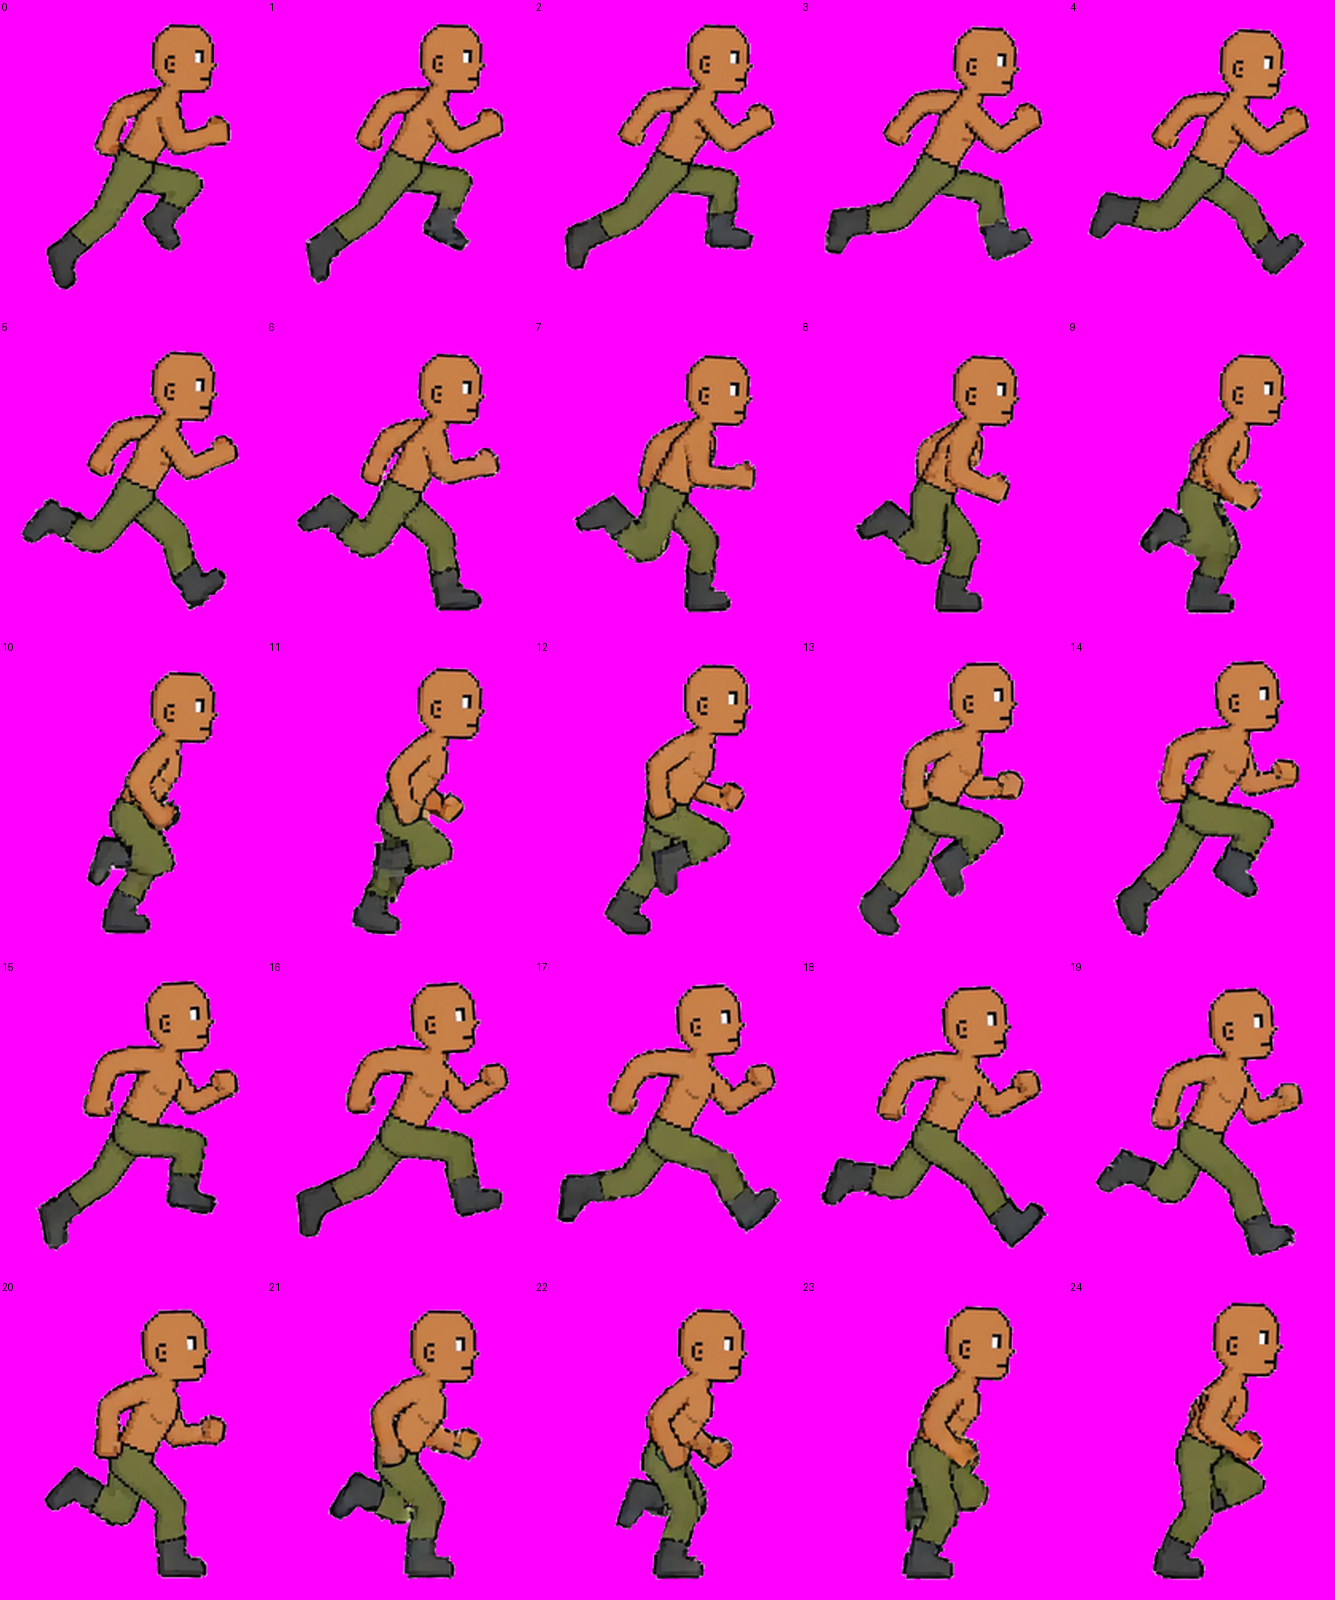
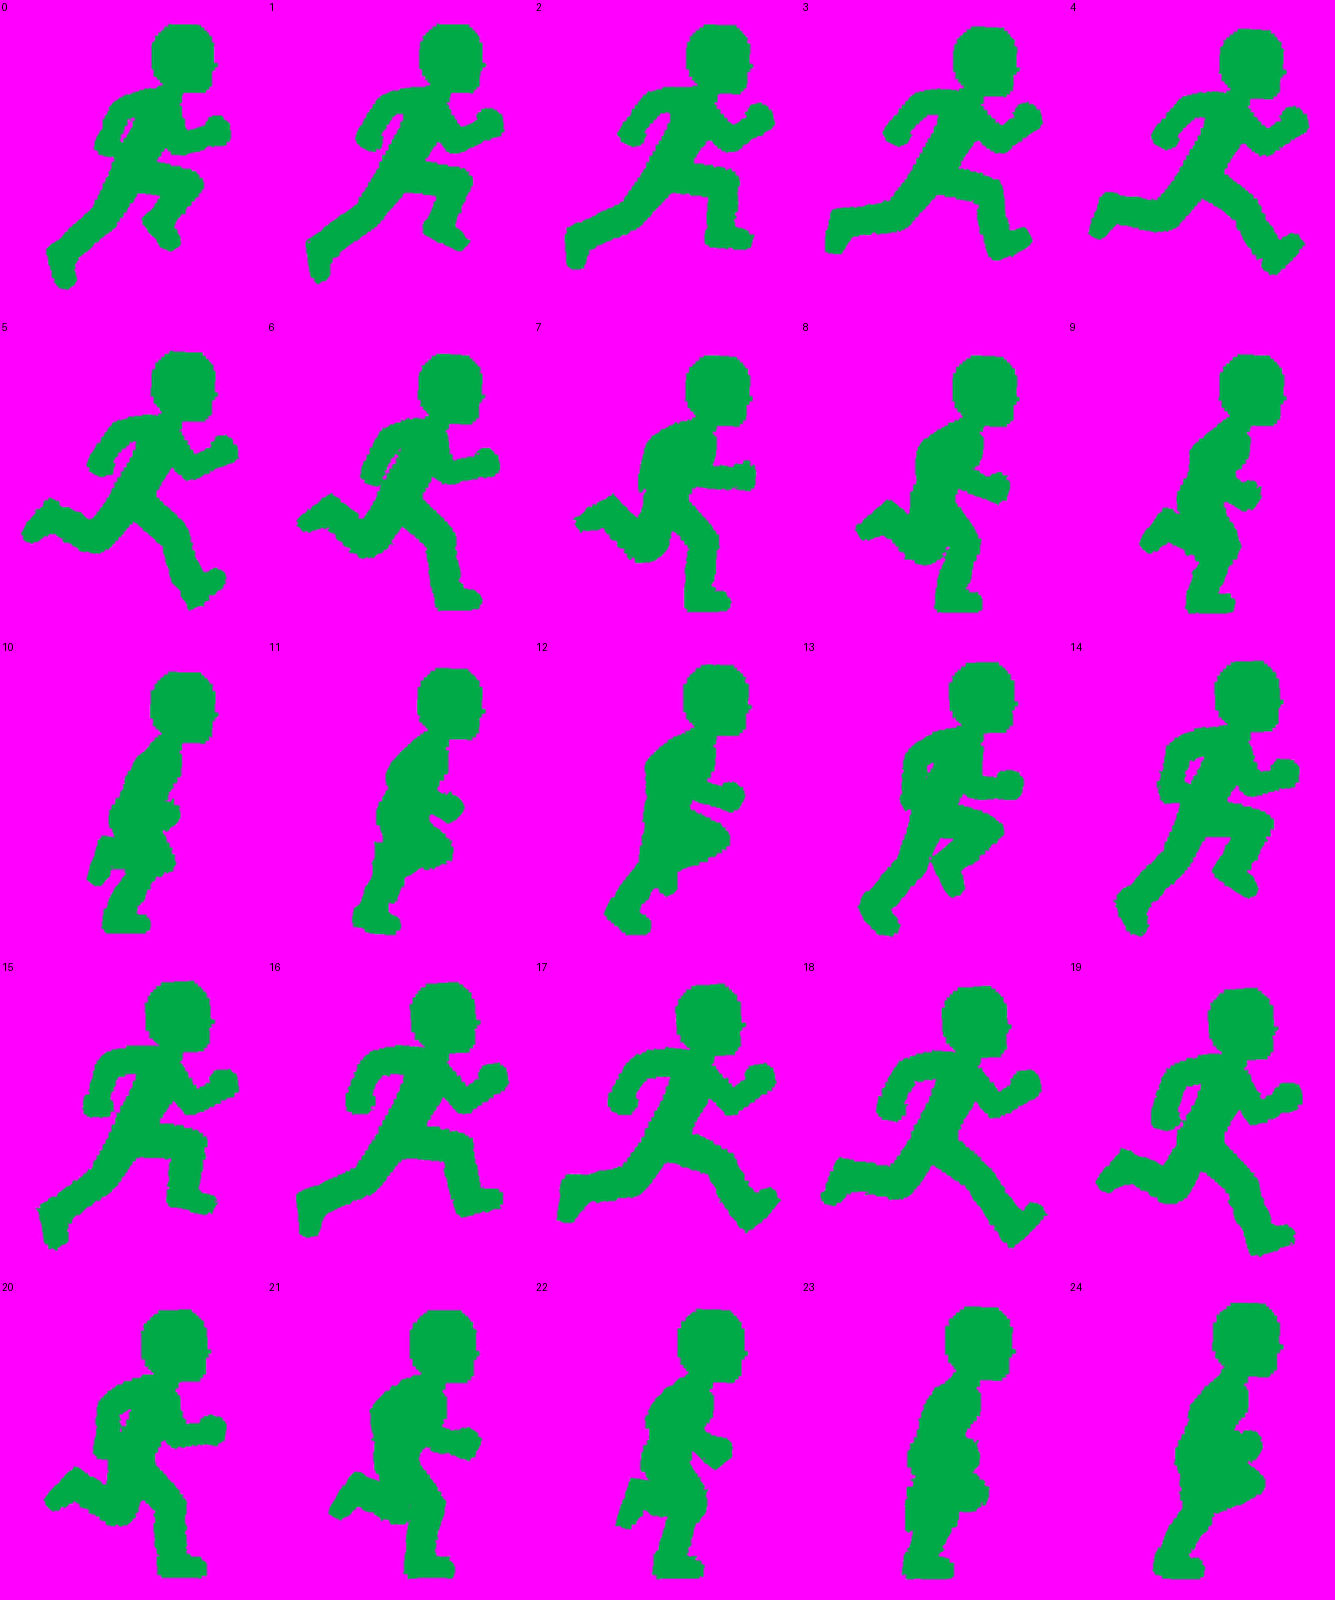
Gear: mannequin mode for clean modular extraction (v2.3.509)
The clean path chosen after diff-vs-redraw hit its ceiling. make_pose_sheet.py
gains a mannequin flag: it replaces the body with a FLAT GREEN silhouette (no
face/shading/outline) so ChatGPT has nothing on the body to redraw
inconsistently. import_gear_from_sheet.py detects the sidecar mannequin flag and
extracts by keying out magenta (bg) + green (body) -> only the armour remains, no
diff/skin/head heuristics. Keeps per-piece modularity AND the player's skin tone.
Regenerated tools/posesheets/jog-east.png as the green mannequin; bare-mannequin
extraction yields 0 px (verified). Tooling only.

diff --git a/tools/make_pose_sheet.py b/tools/make_pose_sheet.py
@@ -24,6 +24,12 @@ pose = sys.argv[1] if len(sys.argv) > 1 else 'jog'
 dir_ = sys.argv[2] if len(sys.argv) > 2 else 'east'
 cols = int(sys.argv[3]) if len(sys.argv) > 3 else 5
 target_fig_h = int(sys.argv[4]) if len(sys.argv) > 4 else 300
+# mannequin=1 -> replace the body with a FLAT green silhouette (no face/shading/
+# outline), so ChatGPT has nothing on the body to redraw differently. Extraction
+# then keys out magenta (bg) + green (body) -> only the armour, surgically clean,
+# while staying modular + skin-tone-agnostic.
+mannequin = int(sys.argv[5]) if len(sys.argv) > 5 else 0
+GREEN = (0, 170, 70)
 
 src = f'public/sprites/player/{pose}-{dir_}.png'
 sheet = Image.open(src).convert('RGBA')
@@ -42,6 +48,14 @@ for fr in frames:
 ux0 = int(max(0, ux0 - MARGIN)); uy0 = int(max(0, uy0 - MARGIN))
 ux1 = int(min(FRAME - 1, ux1 + MARGIN)); uy1 = int(min(FRAME - 1, uy1 + MARGIN))
 crop_w, crop_h = ux1 - ux0 + 1, uy1 - uy0 + 1
+
+if mannequin:
+    flat = []
+    for fr in frames:
+        a = np.array(fr); op = a[:, :, 3] > 40
+        a[op, 0], a[op, 1], a[op, 2] = GREEN
+        flat.append(Image.fromarray(a, 'RGBA'))
+    frames = flat
 
 scale = target_fig_h / crop_h
 iw, ih = round(crop_w * scale), round(crop_h * scale)
@@ -63,17 +77,28 @@ png = f'tools/posesheets/{pose}-{dir_}.png'
 out.save(png)
 meta = {'pose': pose, 'dir': dir_, 'n': n, 'cols': cols, 'rows': rows,
         'cell_w': cell_w, 'cell_h': cell_h, 'pad': PAD,
-        'crop': [ux0, uy0, crop_w, crop_h], 'scale': scale}
+        'crop': [ux0, uy0, crop_w, crop_h], 'scale': scale, 'mannequin': bool(mannequin)}
 json.dump(meta, open(f'tools/posesheets/{pose}-{dir_}.json', 'w'), indent=2)
 
-print(f'wrote {png}  ({out.width}x{out.height}, {n} frames, {cols}x{rows} grid, figure {ih}px tall)')
+print(f'wrote {png}  ({out.width}x{out.height}, {n} frames, {cols}x{rows} grid, '
+      f'figure {ih}px tall, mannequin={bool(mannequin)})')
 print('--- ChatGPT prompt ---')
-print(
-    f'This image is a {cols}x{rows} grid of the SAME character in {n} frames of a '
-    f'run cycle, left-to-right, top-to-bottom, on a solid magenta background.\n'
-    f'Redraw EVERY frame with the character wearing [DESCRIBE ARMOR HERE], drawn '
-    f'over the same body. Keep each frame\'s pose, silhouette, position and scale '
-    f'EXACTLY the same -- only add the armor. Do not add, remove, reorder, or '
-    f'resize frames. Keep the solid magenta (#FF00FF) background. Match the '
-    f'pixel-art style, line weight and resolution of the reference. Return the '
-    f'same grid layout.')
+if mannequin:
+    print(
+        f'This image is a {cols}x{rows} grid of a running character shown as a '
+        f'FLAT GREEN SILHOUETTE, left-to-right top-to-bottom, on a magenta '
+        f'background.\nDraw [DESCRIBE ARMOR HERE] in full detail over the green '
+        f'figure in EVERY frame, fitted to each running pose. CRITICAL: keep the '
+        f'body itself a SOLID FLAT GREEN (#00AA46) -- do NOT shade it, outline it, '
+        f'or add a face/hands/feet; ONLY the armor is drawn and detailed. Keep '
+        f'every pose/position/scale identical, keep the magenta (#FF00FF) '
+        f'background, return the same grid layout.')
+else:
+    print(
+        f'This image is a {cols}x{rows} grid of the SAME character in {n} frames of '
+        f'a run cycle, left-to-right, top-to-bottom, on a solid magenta '
+        f'background.\nRedraw EVERY frame with the character wearing [DESCRIBE '
+        f'ARMOR HERE], drawn over the same body. Keep each frame\'s pose, '
+        f'silhouette, position and scale EXACTLY the same -- only add the armor. '
+        f'Do not add, remove, reorder, or resize frames. Keep the solid magenta '
+        f'(#FF00FF) background. Match the pixel-art style. Return the same grid.')

diff --git a/tools/import_gear_from_sheet.py b/tools/import_gear_from_sheet.py
@@ -56,6 +56,7 @@ cw, ch, pad = meta['cell_w'], meta['cell_h'], meta['pad']
 ux0, uy0, crop_w, crop_h = meta['crop']
 scale = meta['scale']
 n = meta['n']
+mannequin = meta.get('mannequin', False)
 iw, ih = round(crop_w * scale), round(crop_h * scale)
 
 # ChatGPT output -> exact grid size, then slice.
@@ -89,31 +90,39 @@ val = Image.new('RGBA', (FRAME * min(n, 6), FRAME * 2), (50, 54, 62, 255))
 yb0, yb1 = int(ymin_frac * FRAME), int(ymax_frac * FRAME)
 for i in range(n):
     af = keyed_frame(i)
-    bf = np.array(base.crop((i * FRAME, 0, (i + 1) * FRAME, FRAME)))
     a_op = af[:, :, 3] > 40
-    b_rgb = bf[:, :, :3].astype(int)
     a_rgb = af[:, :, :3].astype(int)
-    diff = np.abs(a_rgb - b_rgb).sum(2)
-    b_op = bf[:, :, 3] > 40
-    # gear = armored-opaque AND (base transparent here OR colour changed a lot)
-    gear = a_op & (~b_op | (diff > thresh))
-    band = np.zeros_like(gear); band[yb0:yb1, :] = True
-    gear &= band
-    # per-frame head exclusion (from the base body's crown)
-    if head_frac > 0:
-        yy = np.where(b_op.any(1))[0]
-        if len(yy):
-            hc = yy.min() + int(round(head_frac * (yy.max() - yy.min())))
-            gear[:hc, :] = False
-    # drop redrawn skin (keep only the armour).  Dilate the skin mask a couple px
-    # so the redrawn arm's dark OUTLINE + AA fringe (which sit right at the skin
-    # edge) go with it -- otherwise they leave ghost curves where the arms were.
-    if drop_skin:
+    band = np.zeros_like(a_op); band[yb0:yb1, :] = True
+    if mannequin:
+        # MANNEQUIN: the body is a flat green silhouette -> the armour is simply
+        # everything opaque that isn't green (magenta bg already keyed). No diff,
+        # no skin/head heuristics -> surgically clean. Dilate the green a touch to
+        # take its AA fringe with it.
         R, G, B = a_rgb[:, :, 0], a_rgb[:, :, 1], a_rgb[:, :, 2]
-        rg, gb = R - G, G - B
-        skin = (R > G) & (G > B) & (rg > 18) & (gb > 18) & (np.abs(rg - gb) < 38) & (R > 110)
-        skin = ndimage.binary_dilation(skin, iterations=2)
-        gear &= ~skin
+        green = (G > R + 25) & (G > B + 25) & (G > 60)
+        green = ndimage.binary_dilation(green, iterations=1)
+        gear = a_op & ~green & band
+    else:
+        bf = np.array(base.crop((i * FRAME, 0, (i + 1) * FRAME, FRAME)))
+        b_rgb = bf[:, :, :3].astype(int)
+        diff = np.abs(a_rgb - b_rgb).sum(2)
+        b_op = bf[:, :, 3] > 40
+        # gear = armored-opaque AND (base transparent here OR colour changed a lot)
+        gear = a_op & (~b_op | (diff > thresh)) & band
+        # per-frame head exclusion (from the base body's crown)
+        if head_frac > 0:
+            yy = np.where(b_op.any(1))[0]
+            if len(yy):
+                hc = yy.min() + int(round(head_frac * (yy.max() - yy.min())))
+                gear[:hc, :] = False
+        # drop redrawn skin (keep only the armour); dilate so the arm's dark
+        # outline + AA fringe go with it.
+        if drop_skin:
+            R, G, B = a_rgb[:, :, 0], a_rgb[:, :, 1], a_rgb[:, :, 2]
+            rg, gb = R - G, G - B
+            skin = (R > G) & (G > B) & (rg > 18) & (gb > 18) & (np.abs(rg - gb) < 38) & (R > 110)
+            skin = ndimage.binary_dilation(skin, iterations=2)
+            gear &= ~skin
     # despeckle
     lbl, num = ndimage.label(gear)
     if num:
